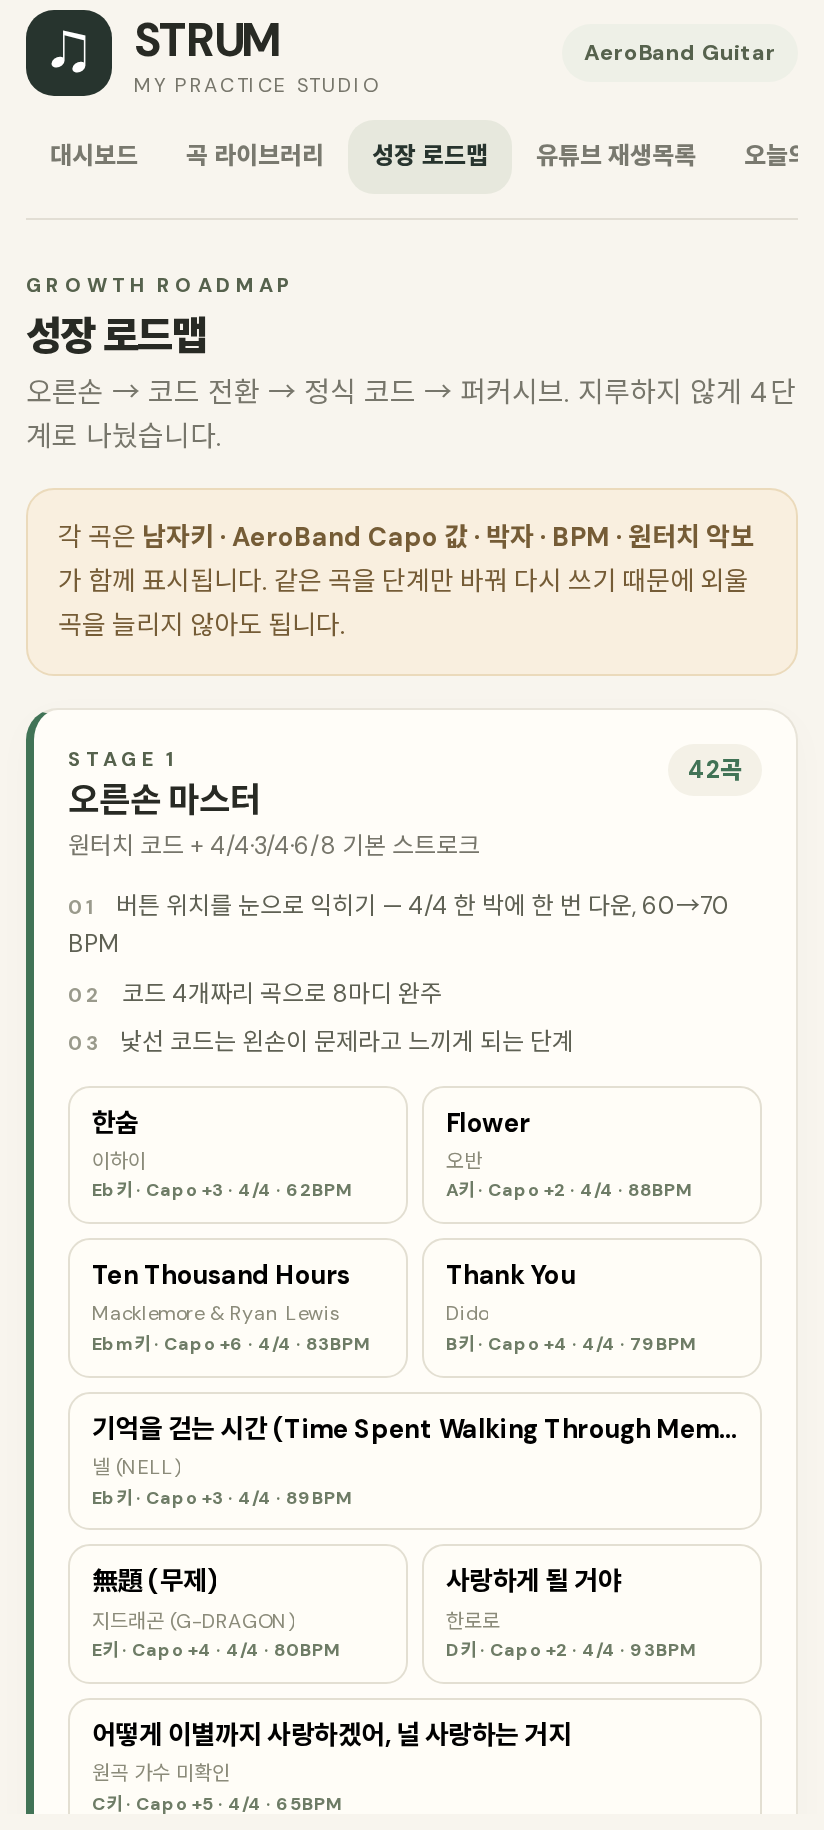
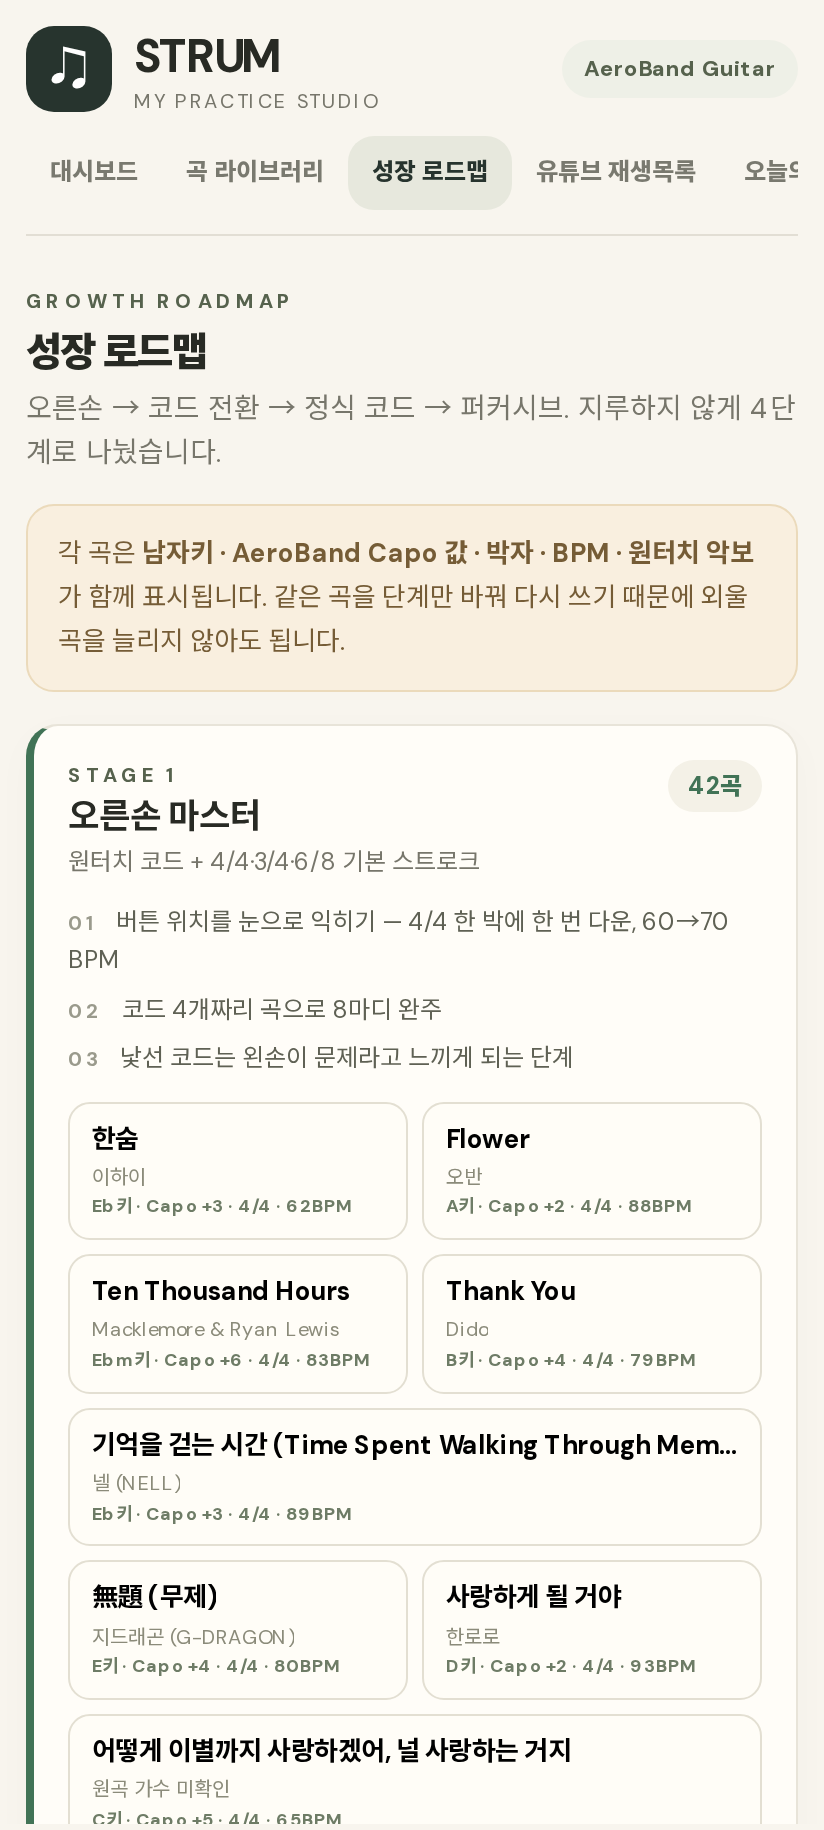
자작 항목 악보 배지·검수 대기 0 안내 문구 정리

diff --git a/src/app.js b/src/app.js
@@ -76,14 +76,14 @@
   const stageChip = n => n ? `<span class="stage-chip s${n}">STAGE ${n}</span>` : '';
   function chartBadge(s){const c=chartOf(s);
     if(s.category==='reference') return `<span class="tag muted">비음악·참고 영상</span>`;
-    if(s.category==='original') return `<span class="tag muted">자작곡 · 채보 필요</span>`;
+    if(s.category==='original'&&!c) return `<span class="tag muted">자작곡 · 채보 필요</span>`;
     if(!c) return `<span class="tag muted">${s.category==='pending'?'코드 검수 대기':'코드 검수 대기'}</span>`;
-    return `<span class="tag chart-tag">남자키 <b>${esc(c.maleKey||s.maleKey||'—')}</b>${Number.isFinite(c.capo)?` · Capo +${c.capo}`:''} · ${esc(c.timeSignature||'—')}${c.bpm?` · ${c.bpm}BPM`:''}${c.status==='partial'?' · 부분 확인':''}</span>`;}
+    return `<span class="tag chart-tag">${s.category==='original'?'음원 분석 · ':''}남자키 <b>${esc(c.maleKey||s.maleKey||'—')}</b>${Number.isFinite(c.capo)?` · Capo +${c.capo}`:''} · ${esc(c.timeSignature||'—')}${c.bpm?` · ${c.bpm}BPM`:''}${c.status==='partial'?' · 부분 확인':''}</span>`;}
 
   function home(){let w=weekStats(), curated=songCount(), ready=buskingCount(),setlist=state.songs.filter(s=>s.setlist).slice(0,5);
     const charted=readySongs().length, pending=pendingSongs().length;
     return `<section class="hero"><div><div class="eyebrow">MAKE A LITTLE PROGRESS, EVERY DAY</div><h1>오늘도, 한 곡에<br>가까워지는 시간.</h1><p>하루 25분의 작은 연습이 낯선 도시의 첫 무대가 됩니다. 남자키로 바꾼 원터치 악보와 4단계 커리큘럼으로 쌓아갑니다.</p>${action('start-practice','오늘의 연습 시작 ↗','btn accent')}</div><div class="hero-badge"><div class="hero-num">${ready}<span> / 3</span></div><p>나의 첫 무대 준비된 곡</p></div></section>
-    <div class="playlist-callout"><div><b>🎸 남자키 원터치 악보 ${charted}곡 준비 완료</b><p class="tiny">남성 원곡은 원키 그대로, 여성 원곡만 -5키 · AeroBand Capo 값 · 4/4·3/4·6/8 박자 · BPM까지 넣었습니다. 코드 검수 대기 ${pending}곡은 코드표 확인 후 채웁니다.</p></div>${action('go-roadmap','로드맵 열기','btn outline small')}</div>
+    <div class="playlist-callout"><div><b>🎸 남자키 원터치 악보 ${charted}곡 준비 완료</b><p class="tiny">남성 원곡은 원키 그대로, 여성 원곡만 -5키 · AeroBand Capo 값 · 4/4·3/4·6/8 박자 · BPM까지 넣었습니다. ${pending?`코드 검수 대기 ${pending}곡은 코드표를 확인한 뒤 채웁니다.`:'코드가 확인되지 않아 비워 둔 곡은 없습니다.'}</p></div>${action('go-roadmap','로드맵 열기','btn outline small')}</div>
     ${head('THIS WEEK','이번 주의 리듬','주 5일 연습을 목표로, 적게라도 꾸준히.')}<section class="cards3"><div class="card"><div class="metric-label">이번 주 연습일</div><div class="metric">${w.days} <span>/ ${state.settings.weeklyGoal}일</span></div><div class="progress"><i style="width:${Math.min(100,Math.round(w.days/state.settings.weeklyGoal*100))}%"></i></div></div><div class="card"><div class="metric-label">누적 연습 시간</div><div class="metric">${w.total} <span>분</span></div></div><div class="card"><div class="metric-label">악보 준비된 곡</div><div class="metric">${charted} <span>/ ${curated}곡 정보</span></div><div class="tiny">원본 재생목록 210개 항목 반영</div></div></section>
     <section class="dashboard-grid" style="margin-top:15px"><div class="card"><div class="row between"><h3>이번 주 출석</h3><span class="tiny">오늘 ${new Intl.DateTimeFormat('ko-KR',{dateStyle:'medium'}).format(new Date())}</span></div><div class="weekdays">${daysView()}</div><div class="divider"></div><p class="tiny">오늘 단 20분이어도 기록하면 출석이 쌓입니다.</p></div><div class="card"><div class="eyebrow">YOUR NEXT FOCUS</div><h3 style="margin:5px 0 12px">지금 먼저 연습할 것</h3><div class="stack"><div>01 · <b>원터치 버튼 4개</b> <span class="muted">— Capo +2, C폼으로 5분</span></div><div>02 · <b>2·4박 척킹</b> <span class="muted">— 60 BPM에서 손날 뮤트 5분</span></div><div>03 · <b>후렴 연결</b> <span class="muted">— 멈추지 않고 4마디 10분</span></div></div></div></section>
     ${head('YOUR FIRST SETLIST','나의 첫 세트리스트','실제로 연주할 곡 3개부터 준비하세요.',action('go-songs','전체 곡 보기','btn outline small'))}
